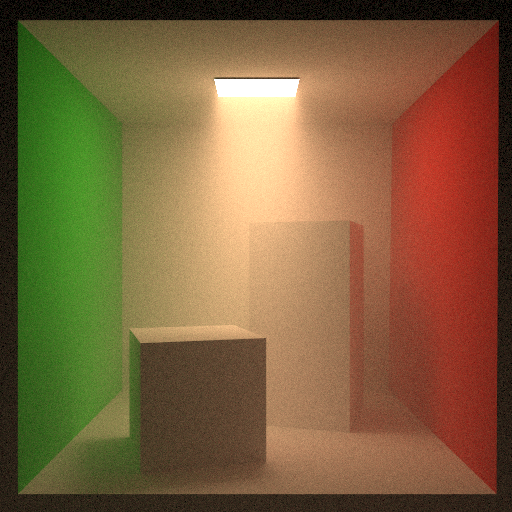
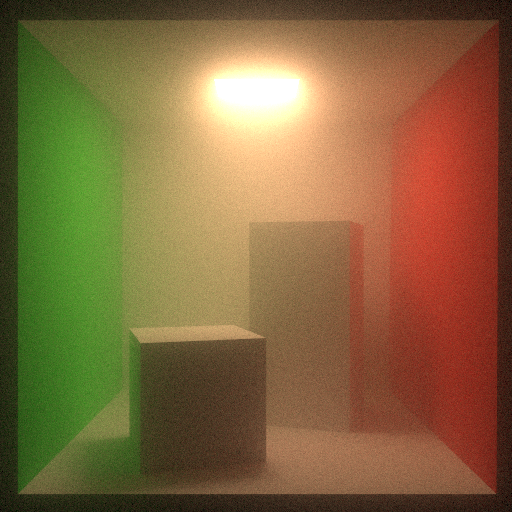
update readme

diff --git a/README.md b/README.md
@@ -1,6 +1,6 @@
 # volpt
 
-![](img/sss_bunny.png)
+![](img/CornellBox-Mist.png)
 
 Brute force volumetric path tracer written in C++.
 
@@ -10,7 +10,7 @@ WIP.
 
 * Homogeneous medium
 * [Hero wavelength sampling](https://doi.org/10.1145/3306346.3323025) for chromatic absorption/scattering coefficient
-* [Artist friendly parameter](https://doi.org/10.1145/2897839.2927433)
+* [Artist friendly parameter](https://doi.org/10.1145/2897839.2927433) to controll absorption/scattering coefficient
 * Random walk subsurface scattering
 * Load obj model
 
@@ -42,7 +42,7 @@ make
 
 ![](img/CornellBox-Mist.png)
 
-### subsurface scattering bunny
+### Subsurface scattering bunny
 
 ![](img/sss_bunny.png)
 
